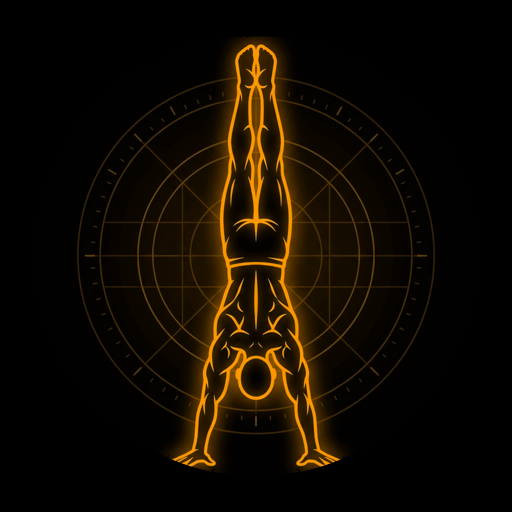
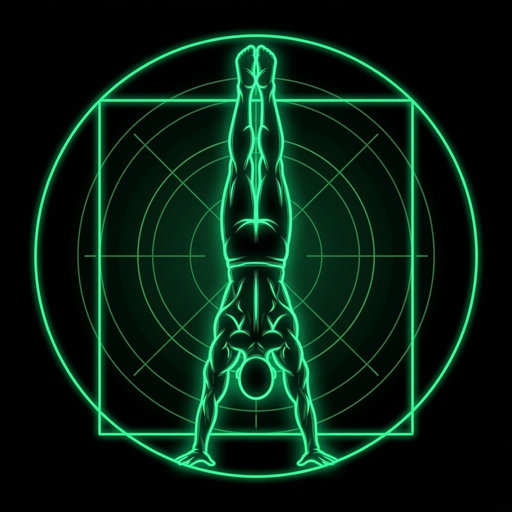
feat(branding): novo icone principal parada de maos com geometria da vinci e glow neon (v94)

diff --git a/sw.js b/sw.js
@@ -1,50 +1,37 @@
-const CACHE_NAME = 'dominio-corporal-v93';
+const CACHE_NAME = 'dominio-corporal-v94';
 const ASSETS_TO_CACHE = [
   './',
   './index.html',
   './treino.html',
-  './prontuario_planilha_visual.html',
-  './PRONTUARIO_E_HISTORICO_GUILHERME_LEMOS.xlsx',
-  './jean.html',
-  './manifest-jean.json',
+  './manifest.json',
   './Midia/icon-192.png',
   './Midia/icon-512.png',
   './Midia/icon-pessoal-192.png',
   './Midia/icon-pessoal-512.png',
+  './Midia/favicon.png',
   './Midia/icon_evol_composicao.png',
   './Midia/icon_evol_tecnica.png',
   './Midia/icon_evol_recordes.png',
   './Midia/icon_evol_relatorio.png',
-  './Midia/favicon.png',
-  './Midia/gui_foto.jpg',
-  './Midia/comparacao_frontal_relaxado.jpg',
-  './Midia/comparacao_duplo_biceps.jpg',
-  './manifest.json',
-  './manifest-pessoal.json'
+  'https://fonts.googleapis.com/css2?family=Inter:wght@400;500;600;700;800&display=swap'
 ];
 
-// Install: precache app shell safely without failing on network/font issues
+// Install: precache app shell
 self.addEventListener('install', (event) => {
-  self.skipWaiting();
   event.waitUntil(
     caches.open(CACHE_NAME).then((cache) => {
-      return Promise.allSettled(
-        ASSETS_TO_CACHE.map((url) =>
-          cache.add(url).catch((err) => console.warn('Cache fallback for ' + url, err))
-        )
-      );
-    })
+      return cache.addAll(ASSETS_TO_CACHE);
+    }).then(() => self.skipWaiting())
   );
 });
 
-// Activate: clean up old caches immediately and take control
+// Activate: clean up old caches
 self.addEventListener('activate', (event) => {
   event.waitUntil(
     caches.keys().then((keys) => {
       return Promise.all(
         keys.map((key) => {
           if (key !== CACHE_NAME) {
-            console.log('Purging legacy cache:', key);
             return caches.delete(key);
           }
         })
@@ -53,9 +40,8 @@ self.addEventListener('activate', (event) => {
   );
 });
 
-// Fetch: network first with offline fallback for html, cache first for fonts
+// Fetch: network first with offline fallback for html, cache first for fonts e midias
 self.addEventListener('fetch', (event) => {
-  // Ignore non-GET requests
   if (event.request.method !== 'GET') return;
 
   const url = new URL(event.request.url);
@@ -65,13 +51,10 @@ self.addEventListener('fetch', (event) => {
     return;
   }
 
-  const isHtml = event.request.mode === 'navigate' || event.request.headers.get('accept')?.includes('text/html');
-
   // Network-first strategy for app files so Gui always gets latest training updates
   event.respondWith(
-    (isHtml ? fetch(event.request, { cache: 'reload' }) : fetch(event.request))
+    fetch(event.request)
       .then((networkResponse) => {
-        // Clone and cache the fresh response
         if (networkResponse && networkResponse.status === 200) {
           const responseClone = networkResponse.clone();
           caches.open(CACHE_NAME).then((cache) => {
@@ -81,12 +64,11 @@ self.addEventListener('fetch', (event) => {
         return networkResponse;
       })
       .catch(() => {
-        // Fallback to cache if offline
         return caches.match(event.request).then((cachedResponse) => {
           if (cachedResponse) {
             return cachedResponse;
           }
-          if (isHtml) {
+          if (event.request.headers.get('accept')?.includes('text/html')) {
             return caches.match('./index.html');
           }
         });

diff --git a/index.html b/index.html
@@ -17,12 +17,12 @@
   <meta name="apple-mobile-web-app-status-bar-style" content="black-translucent">
   <meta name="apple-mobile-web-app-title" content="Domínio Corporal Gui">
   <meta name="theme-color" content="#000000">
-  <link rel="icon" type="image/png" sizes="192x192" href="Midia/icon-pessoal-192.png">
-  <link rel="icon" type="image/png" sizes="512x512" href="Midia/icon-pessoal-512.png">
-  <link rel="apple-touch-icon" sizes="180x180" href="Midia/icon-pessoal-192.png">
-  <link rel="apple-touch-icon" sizes="192x192" href="Midia/icon-pessoal-192.png">
-  <link rel="apple-touch-icon" sizes="512x512" href="Midia/icon-pessoal-512.png">
-  <link rel="shortcut icon" href="Midia/icon-pessoal-192.png">
+  <link rel="icon" type="image/png" sizes="192x192" href="Midia/icon-192.png">
+  <link rel="icon" type="image/png" sizes="512x512" href="Midia/icon-512.png">
+  <link rel="apple-touch-icon" sizes="180x180" href="Midia/icon-192.png">
+  <link rel="apple-touch-icon" sizes="192x192" href="Midia/icon-192.png">
+  <link rel="apple-touch-icon" sizes="512x512" href="Midia/icon-512.png">
+  <link rel="shortcut icon" href="Midia/favicon.png">
 
   <!-- Fonte Inter -->
   <link rel="preconnect" href="https://fonts.googleapis.com">
@@ -7719,13 +7719,13 @@
 
   <script>
     // Limpeza forçada de caches legados para garantir que novidades apareçam imediatamente
-    const APP_BUILD_VERSION = '93';
+    const APP_BUILD_VERSION = '94';
     if (localStorage.getItem('dominio_build_ver') !== APP_BUILD_VERSION) {
       localStorage.setItem('dominio_build_ver', APP_BUILD_VERSION);
       if ('caches' in window) {
         caches.keys().then((keys) => {
           keys.forEach((k) => {
-            if (k !== 'dominio-corporal-v90') caches.delete(k);
+            if (k !== 'dominio-corporal-v94') caches.delete(k);
           });
         });
       }
@@ -9502,7 +9502,7 @@
     // Registra Service Worker (PWA Offline)
     if ('serviceWorker' in navigator) {
       window.addEventListener('load', () => {
-        navigator.serviceWorker.register('sw.js?v=93').then((reg) => {
+        navigator.serviceWorker.register('sw.js?v=94').then((reg) => {
           reg.update();
         }).catch(err => console.log('SW falhou:', err));
       });

diff --git a/treino.html b/treino.html
@@ -17,12 +17,12 @@
   <meta name="apple-mobile-web-app-status-bar-style" content="black-translucent">
   <meta name="apple-mobile-web-app-title" content="Domínio Corporal Gui">
   <meta name="theme-color" content="#000000">
-  <link rel="icon" type="image/png" sizes="192x192" href="Midia/icon-pessoal-192.png">
-  <link rel="icon" type="image/png" sizes="512x512" href="Midia/icon-pessoal-512.png">
-  <link rel="apple-touch-icon" sizes="180x180" href="Midia/icon-pessoal-192.png">
-  <link rel="apple-touch-icon" sizes="192x192" href="Midia/icon-pessoal-192.png">
-  <link rel="apple-touch-icon" sizes="512x512" href="Midia/icon-pessoal-512.png">
-  <link rel="shortcut icon" href="Midia/icon-pessoal-192.png">
+  <link rel="icon" type="image/png" sizes="192x192" href="Midia/icon-192.png">
+  <link rel="icon" type="image/png" sizes="512x512" href="Midia/icon-512.png">
+  <link rel="apple-touch-icon" sizes="180x180" href="Midia/icon-192.png">
+  <link rel="apple-touch-icon" sizes="192x192" href="Midia/icon-192.png">
+  <link rel="apple-touch-icon" sizes="512x512" href="Midia/icon-512.png">
+  <link rel="shortcut icon" href="Midia/favicon.png">
 
   <!-- Fonte Inter -->
   <link rel="preconnect" href="https://fonts.googleapis.com">
@@ -7719,13 +7719,13 @@
 
   <script>
     // Limpeza forçada de caches legados para garantir que novidades apareçam imediatamente
-    const APP_BUILD_VERSION = '93';
+    const APP_BUILD_VERSION = '94';
     if (localStorage.getItem('dominio_build_ver') !== APP_BUILD_VERSION) {
       localStorage.setItem('dominio_build_ver', APP_BUILD_VERSION);
       if ('caches' in window) {
         caches.keys().then((keys) => {
           keys.forEach((k) => {
-            if (k !== 'dominio-corporal-v90') caches.delete(k);
+            if (k !== 'dominio-corporal-v94') caches.delete(k);
           });
         });
       }
@@ -9502,7 +9502,7 @@
     // Registra Service Worker (PWA Offline)
     if ('serviceWorker' in navigator) {
       window.addEventListener('load', () => {
-        navigator.serviceWorker.register('sw.js?v=93').then((reg) => {
+        navigator.serviceWorker.register('sw.js?v=94').then((reg) => {
           reg.update();
         }).catch(err => console.log('SW falhou:', err));
       });
